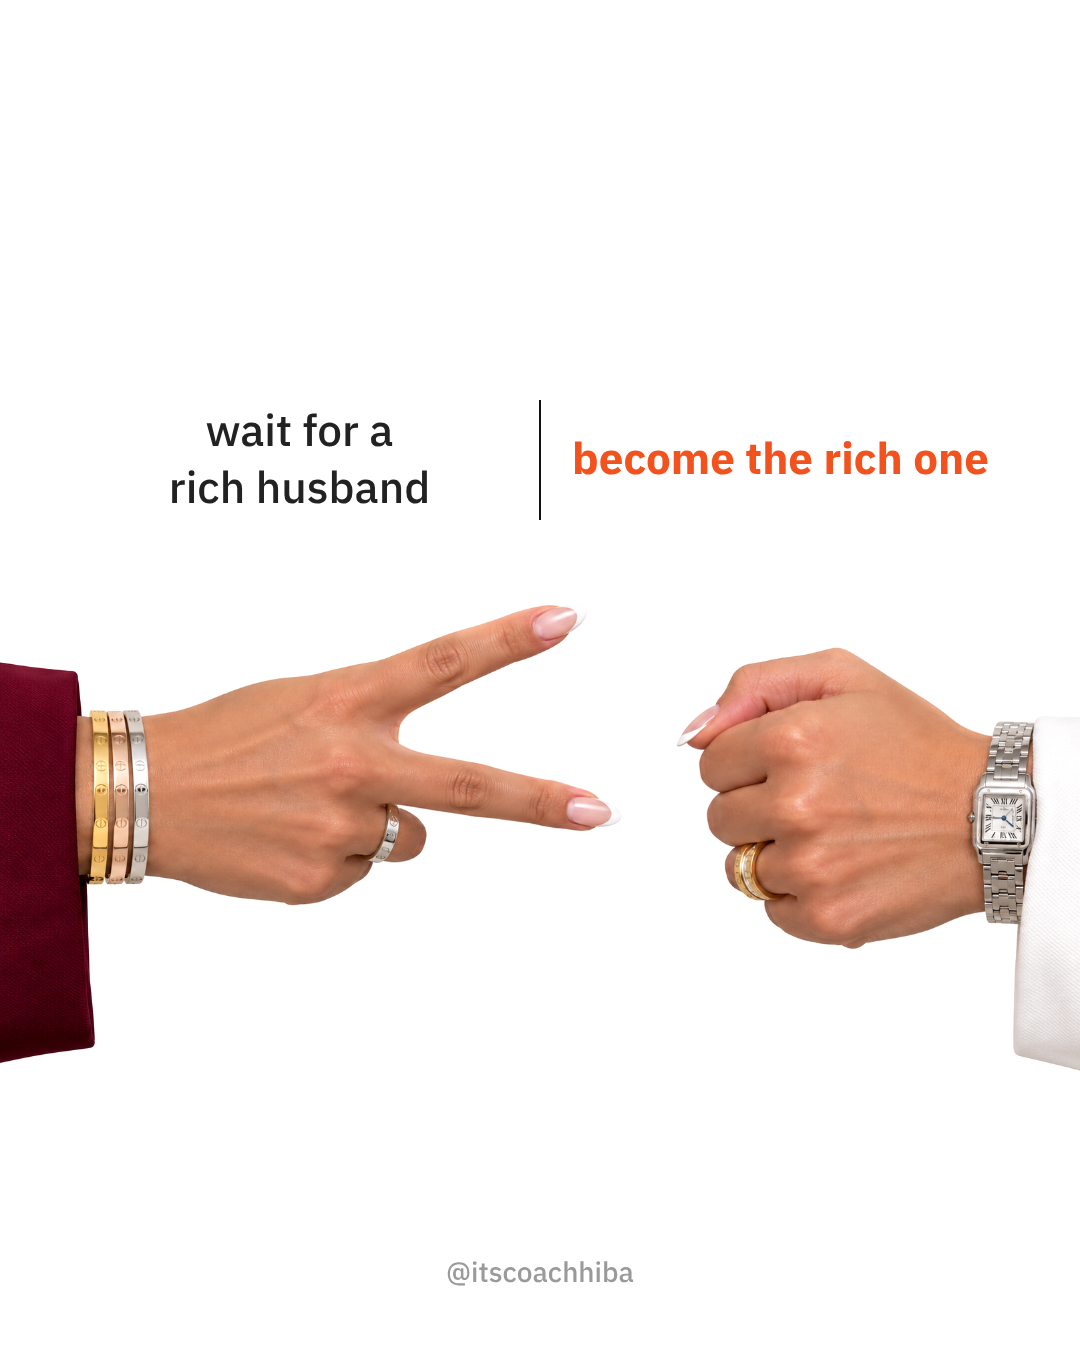
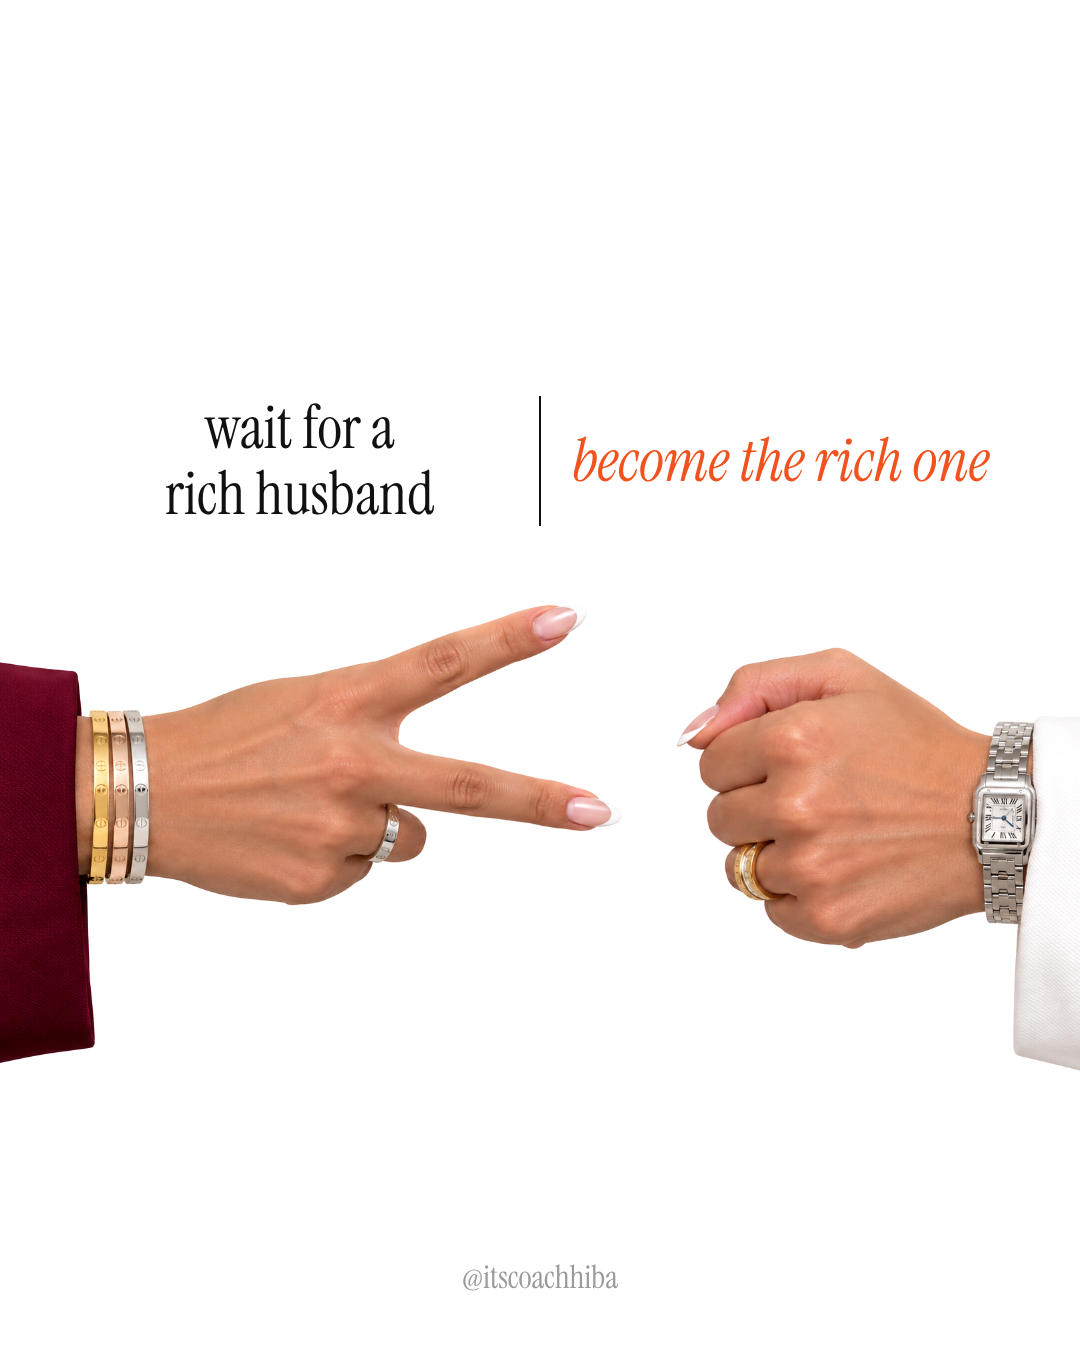
English carousel: switch to Instrument Serif
Claude-Session: https://claude.ai/code/session_01Q3F4hydPDiJyjfKYRyCC3U

Changed region(s): [[0.5194, 0.3111, 0.9167, 0.3733], [0.1528, 0.28, 0.3972, 0.4044], [0.3972, 0.9333, 0.5806, 0.9644]]

diff --git a/carousels/16-same-skills-bigger-income/carousel_en.html b/carousels/16-same-skills-bigger-income/carousel_en.html
@@ -1,15 +1,15 @@
-<!doctype html><html lang="en"><head><meta charset="utf-8"><style>@font-face{font-family:P;font-weight:700;src:url(ibm-plex-sans-arabic-latin-700.woff2)}
-@font-face{font-family:P;font-weight:500;src:url(ibm-plex-sans-arabic-latin-500.woff2)}
+<!doctype html><html lang="en"><head><meta charset="utf-8"><style>@font-face{font-family:S;font-style:normal;src:url(instrument-serif-400-normal.woff2)}
+@font-face{font-family:S;font-style:italic;src:url(instrument-serif-400-italic.woff2)}
 *{margin:0;box-sizing:border-box}body{background:#ddd}
-.slide{width:1080px;height:1350px;position:relative;overflow:hidden;background:#fff;color:#111;font-family:P;text-align:center}
+.slide{width:1080px;height:1350px;position:relative;overflow:hidden;background:#fff;color:#111;font-family:S;font-weight:400;text-align:center;letter-spacing:-0.01em}
 .img{position:absolute;left:0;top:560px;width:1080px;mix-blend-mode:multiply}
-.pair{position:absolute;top:400px;left:60px;right:60px;display:flex;align-items:center;justify-content:center}
-.pair p{flex:1;font-size:44px;line-height:1.3;text-wrap:balance;padding:0 26px}
-.pair .w{font-weight:500;color:#222}.pair .s{font-weight:700;color:#F2531E}
-.pair i{width:2px;height:120px;background:#111;flex:none}
-.h{position:absolute;bottom:56px;left:0;right:0;font-weight:500;font-size:28px;color:#9a9a9a}
+.pair{position:absolute;top:395px;left:60px;right:60px;display:flex;align-items:center;justify-content:center}
+.pair p{flex:1;font-size:60px;line-height:1.1;text-wrap:balance;padding:0 30px}
+.pair .w{color:#111}.pair .s{color:#F2531E;font-style:italic}
+.pair i{width:1.5px;height:130px;background:#111;flex:none}
+.h{position:absolute;bottom:52px;left:0;right:0;font-size:32px;color:#9a9a9a}
 .end .img{top:470px}
-.end .top{position:absolute;top:180px;left:80px;right:80px}
-.big{font-weight:700;font-size:62px;line-height:1.25;text-wrap:balance}.big.o{color:#F2531E;margin-top:14px}
-.cta{position:absolute;top:1090px;left:110px;right:110px;font-weight:500;font-size:38px;line-height:1.45;text-wrap:balance}
-.cta b{color:#F2531E;font-weight:700}</style></head><body><section class="slide"><div class="pair"><p class="w">wait for a rich husband</p><i></i><p class="s">become the rich one</p></div><img class="img" src="hands_en.png"><div class="h">@itscoachhiba</div></section><section class="slide"><div class="pair"><p class="w">explain your dreams</p><i></i><p class="s">show your results</p></div><img class="img" src="hands_en.png"><div class="h">@itscoachhiba</div></section><section class="slide"><div class="pair"><p class="w">wait for the right time</p><i></i><p class="s">start now</p></div><img class="img" src="hands_en.png"><div class="h">@itscoachhiba</div></section><section class="slide"><div class="pair"><p class="w">wait for a raise</p><i></i><p class="s">set your own price</p></div><img class="img" src="hands_en.png"><div class="h">@itscoachhiba</div></section><section class="slide"><div class="pair"><p class="w">use your skills for someone else</p><i></i><p class="s">turn them into a digital business</p></div><img class="img" src="hands_en.png"><div class="h">@itscoachhiba</div></section><section class="slide"><div class="pair"><p class="w">chase clients</p><i></i><p class="s">attract clients</p></div><img class="img" src="hands_en.png"><div class="h">@itscoachhiba</div></section><section class="slide"><div class="pair"><p class="w">post and pray</p><i></i><p class="s">post and sell</p></div><img class="img" src="hands_en.png"><div class="h">@itscoachhiba</div></section><section class="slide"><div class="pair"><p class="w">lower your prices</p><i></i><p class="s">raise your value</p></div><img class="img" src="hands_en.png"><div class="h">@itscoachhiba</div></section><section class="slide end"><div class="top"><p class="big">Your skills are already making someone rich.</p><p class="big o">Why not you?</p></div><img class="img" src="coffee_en.png"><div class="cta">Comment <b>BRAND</b> and I'll send you how to turn your skills into a digital business</div><div class="h">@itscoachhiba</div></section></body></html>
+.end .top{position:absolute;top:170px;left:90px;right:90px}
+.big{font-size:88px;line-height:1.05;text-wrap:balance}.big.o{color:#F2531E;font-style:italic;margin-top:22px}
+.cta{position:absolute;top:1085px;left:120px;right:120px;font-size:50px;line-height:1.15;text-wrap:balance}
+.cta b{color:#F2531E;font-weight:400;font-style:italic}</style></head><body><section class="slide"><div class="pair"><p class="w">wait for a rich husband</p><i></i><p class="s">become the rich one</p></div><img class="img" src="hands_en.png"><div class="h">@itscoachhiba</div></section><section class="slide"><div class="pair"><p class="w">explain your dreams</p><i></i><p class="s">show your results</p></div><img class="img" src="hands_en.png"><div class="h">@itscoachhiba</div></section><section class="slide"><div class="pair"><p class="w">wait for the right time</p><i></i><p class="s">start now</p></div><img class="img" src="hands_en.png"><div class="h">@itscoachhiba</div></section><section class="slide"><div class="pair"><p class="w">wait for a raise</p><i></i><p class="s">set your own price</p></div><img class="img" src="hands_en.png"><div class="h">@itscoachhiba</div></section><section class="slide"><div class="pair"><p class="w">use your skills for someone else</p><i></i><p class="s">turn them into a digital business</p></div><img class="img" src="hands_en.png"><div class="h">@itscoachhiba</div></section><section class="slide"><div class="pair"><p class="w">chase clients</p><i></i><p class="s">attract clients</p></div><img class="img" src="hands_en.png"><div class="h">@itscoachhiba</div></section><section class="slide"><div class="pair"><p class="w">post and pray</p><i></i><p class="s">post and sell</p></div><img class="img" src="hands_en.png"><div class="h">@itscoachhiba</div></section><section class="slide"><div class="pair"><p class="w">lower your prices</p><i></i><p class="s">raise your value</p></div><img class="img" src="hands_en.png"><div class="h">@itscoachhiba</div></section><section class="slide end"><div class="top"><p class="big">Your skills are already making someone rich.</p><p class="big o">Why not you?</p></div><img class="img" src="coffee_en.png"><div class="cta">Comment <b>BRAND</b> and I'll send you how to turn your skills into a digital business</div><div class="h">@itscoachhiba</div></section></body></html>

diff --git a/carousels/16-same-skills-bigger-income/build_en.py b/carousels/16-same-skills-bigger-income/build_en.py
@@ -26,21 +26,21 @@ s += ('<section class="slide end"><div class="top"><p class="big">Your skills ar
       '<p class="big o">Why not you?</p></div><img class="img" src="coffee_en.png">'
       '<div class="cta">Comment <b>BRAND</b> and I\'ll send you how to turn your skills into a digital business</div>' + h + '</section>')
 
-css = '''@font-face{font-family:P;font-weight:700;src:url(ibm-plex-sans-arabic-latin-700.woff2)}
-@font-face{font-family:P;font-weight:500;src:url(ibm-plex-sans-arabic-latin-500.woff2)}
+css = '''@font-face{font-family:S;font-style:normal;src:url(instrument-serif-400-normal.woff2)}
+@font-face{font-family:S;font-style:italic;src:url(instrument-serif-400-italic.woff2)}
 *{margin:0;box-sizing:border-box}body{background:#ddd}
-.slide{width:1080px;height:1350px;position:relative;overflow:hidden;background:#fff;color:#111;font-family:P;text-align:center}
+.slide{width:1080px;height:1350px;position:relative;overflow:hidden;background:#fff;color:#111;font-family:S;font-weight:400;text-align:center;letter-spacing:-0.01em}
 .img{position:absolute;left:0;top:560px;width:1080px;mix-blend-mode:multiply}
-.pair{position:absolute;top:400px;left:60px;right:60px;display:flex;align-items:center;justify-content:center}
-.pair p{flex:1;font-size:44px;line-height:1.3;text-wrap:balance;padding:0 26px}
-.pair .w{font-weight:500;color:#222}.pair .s{font-weight:700;color:#F2531E}
-.pair i{width:2px;height:120px;background:#111;flex:none}
-.h{position:absolute;bottom:56px;left:0;right:0;font-weight:500;font-size:28px;color:#9a9a9a}
+.pair{position:absolute;top:395px;left:60px;right:60px;display:flex;align-items:center;justify-content:center}
+.pair p{flex:1;font-size:60px;line-height:1.1;text-wrap:balance;padding:0 30px}
+.pair .w{color:#111}.pair .s{color:#F2531E;font-style:italic}
+.pair i{width:1.5px;height:130px;background:#111;flex:none}
+.h{position:absolute;bottom:52px;left:0;right:0;font-size:32px;color:#9a9a9a}
 .end .img{top:470px}
-.end .top{position:absolute;top:180px;left:80px;right:80px}
-.big{font-weight:700;font-size:62px;line-height:1.25;text-wrap:balance}.big.o{color:#F2531E;margin-top:14px}
-.cta{position:absolute;top:1090px;left:110px;right:110px;font-weight:500;font-size:38px;line-height:1.45;text-wrap:balance}
-.cta b{color:#F2531E;font-weight:700}'''
+.end .top{position:absolute;top:170px;left:90px;right:90px}
+.big{font-size:88px;line-height:1.05;text-wrap:balance}.big.o{color:#F2531E;font-style:italic;margin-top:22px}
+.cta{position:absolute;top:1085px;left:120px;right:120px;font-size:50px;line-height:1.15;text-wrap:balance}
+.cta b{color:#F2531E;font-weight:400;font-style:italic}'''
 
 open(sys.argv[1], "w", encoding="utf-8").write(
     f'<!doctype html><html lang="en"><head><meta charset="utf-8"><style>{css}</style></head><body>{s}</body></html>')
